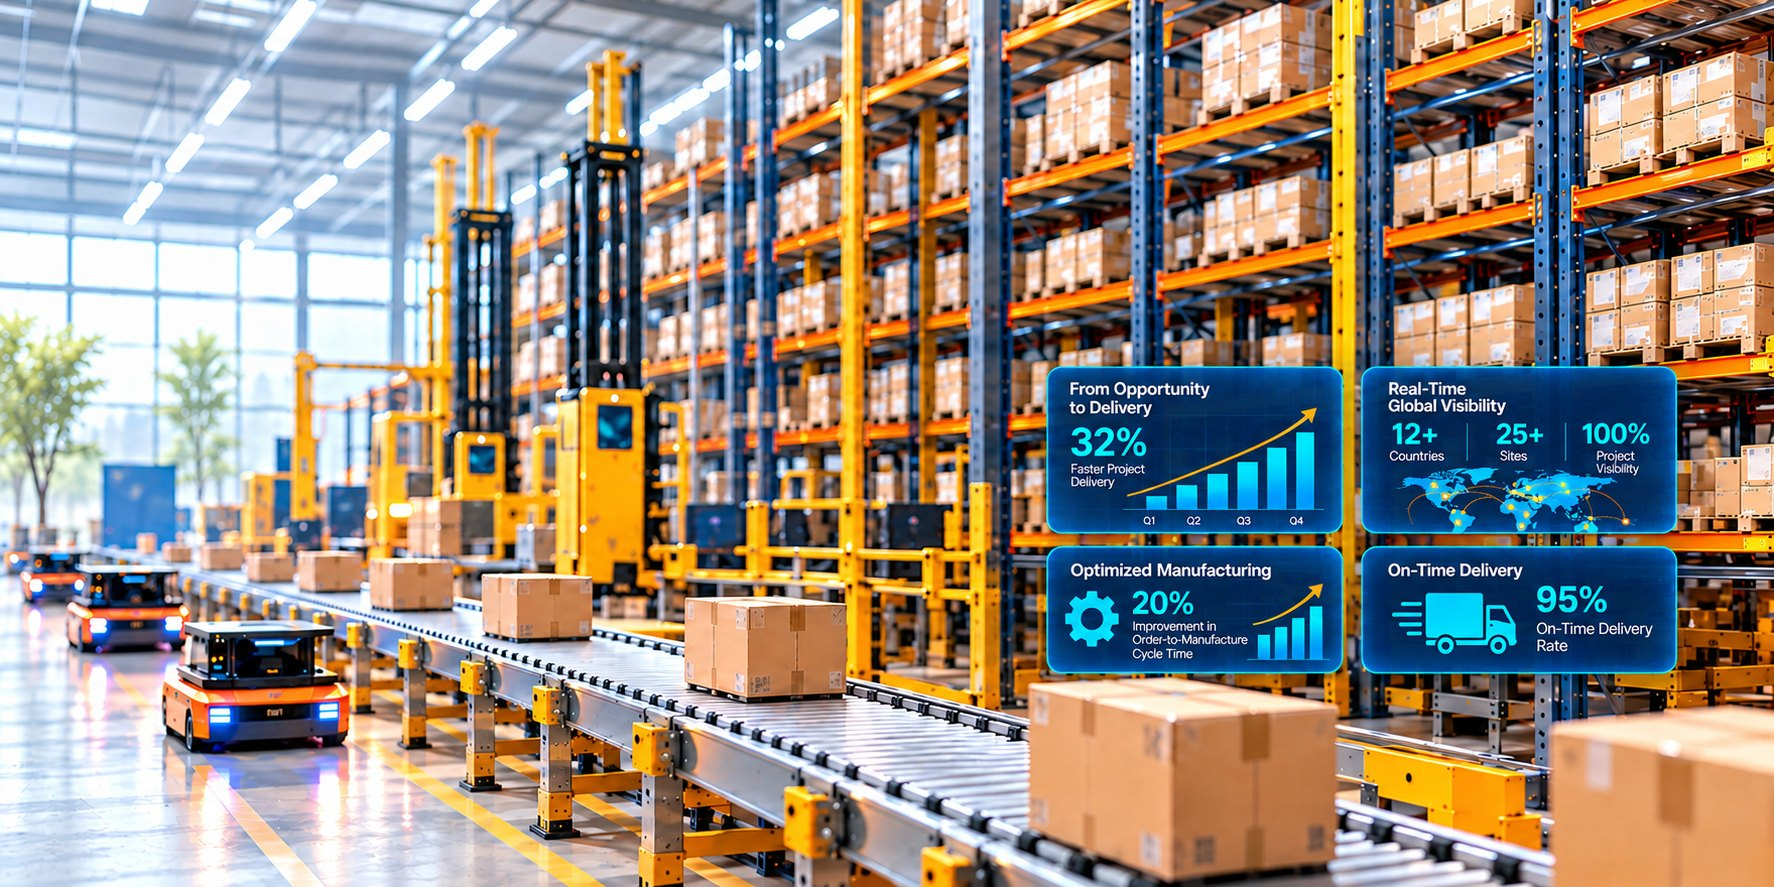
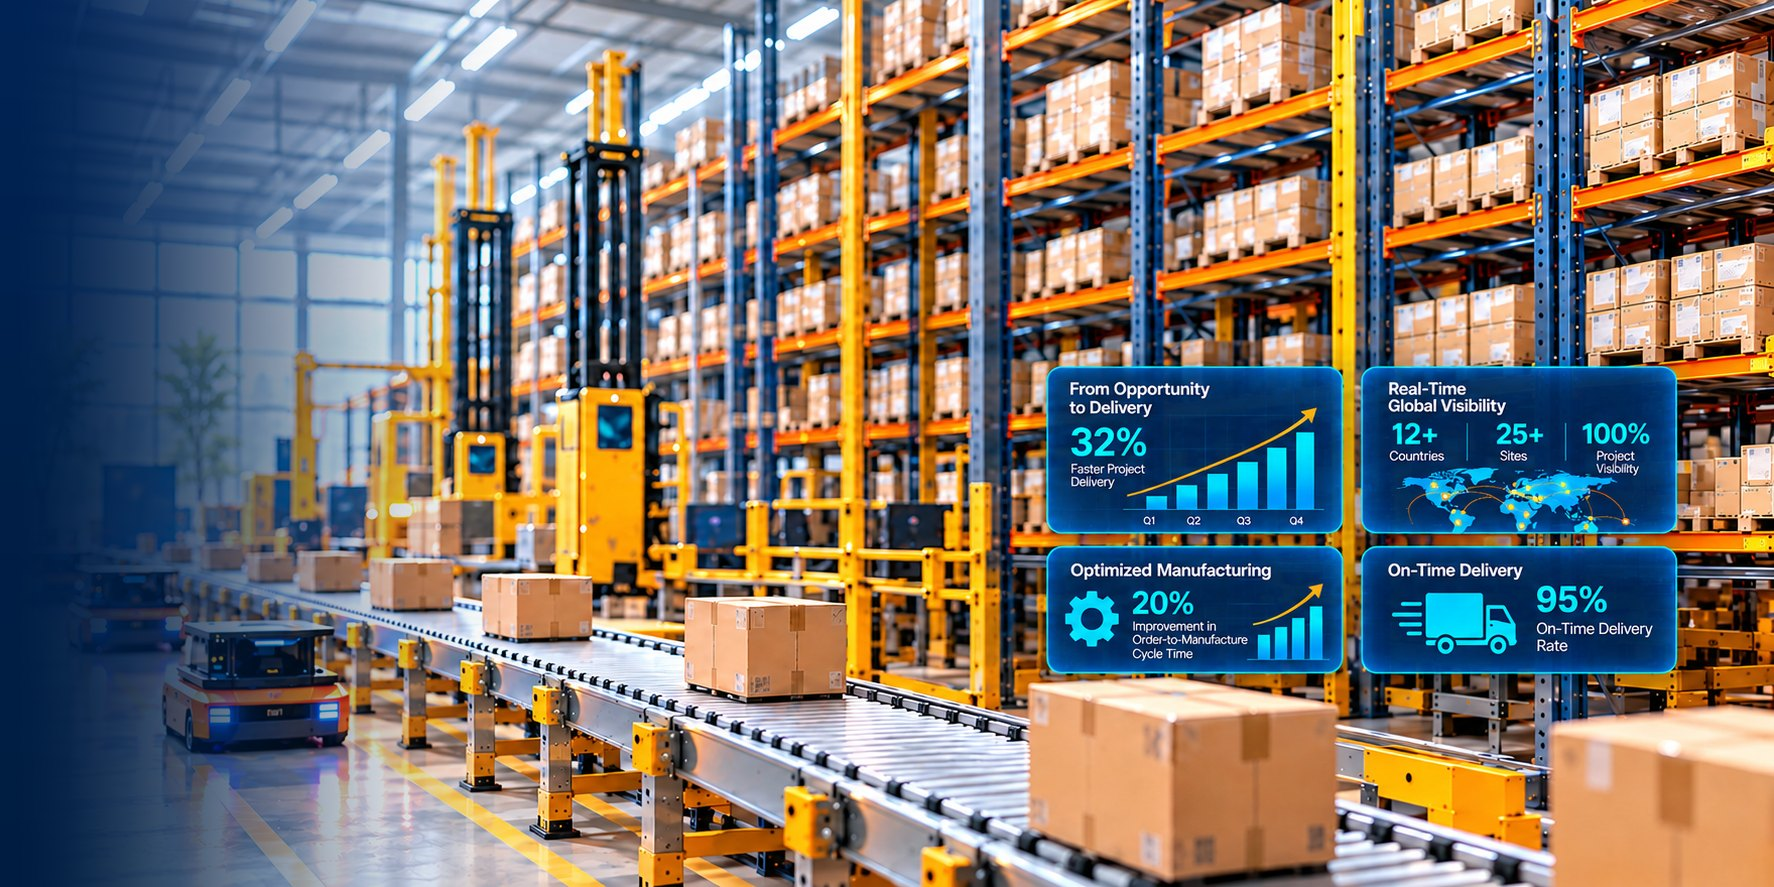
Dematic hero: keep the dark cover to the text
Feather the artwork's left 30% into the navy base so the cover no longer has
to stretch to hide the image edge; the cover now clears just after the copy at
every width.

Changed region(s): [[0.0, 0.0, 0.248, 1.0]]

diff --git a/assets/css/dematic-case-study.css b/assets/css/dematic-case-study.css
@@ -148,13 +148,13 @@ body.infometry-dematic-case-study-page #Header { min-height: 0 !important; }
  * Identical to the Sunrun hero (sunrise-case-study.css): same height, frame,
  * padding, copy width and type, so every case-study banner matches.
  *  1025px+  hero height clamp(400px, 37.5vw, 540px); the artwork lives in a
- *           1440px frame, height-fitted and right-aligned, under an opaque
- *           navy cover that clears before the first panel.
+ *           1440px frame, height-fitted and right-aligned. The artwork's left
+ *           30% is feathered into the navy base, so the opaque cover only has to
+ *           sit behind the copy and clears just after it.
  *  1441px+  the frame stops growing; the artwork bleeds to the viewport's right
- *           edge and the cover only sits behind the copy (the copy always ends
- *           at 50% - 74px). Panels start 444px from the artwork's right edge
- *           (540px tall x 2 = 1080px wide), so the cover clears before them and
- *           always hides the artwork's left edge (100% - 1080px).
+ *           edge and the cover still only sits behind the copy (which always
+ *           ends at 50% - 74px). Panels start 444px from the artwork's right edge
+ *           (540px tall x 2 = 1080px wide), so the cover always clears before them.
  *  A light top shade keeps the theme menu readable over the bright artwork.
  *  <=1024   artwork shown as an image under the copy.
  */
@@ -239,7 +239,7 @@ body.infometry-dematic-case-study-page #Header { min-height: 0 !important; }
 		pointer-events: none;
 		background:
 			linear-gradient(180deg, rgba(0, 22, 52, .72) 0, rgba(0, 22, 52, 0) 130px),
-			linear-gradient(90deg, #001f47 0%, #001f47 38%, rgba(0, 31, 71, .7) 45%, rgba(0, 31, 71, 0) 53%),
+			linear-gradient(90deg, #001f47 0%, #001f47 calc(51.8% - 60px), rgba(0, 31, 71, .55) 51.8%, rgba(0, 31, 71, 0) calc(51.8% + 50px)),
 			url(../images/case-studies/dematic/dematic-warehouse-visibility-hero.jpg) right center / auto 100% no-repeat;
 	}
 	.dematic-hero-copy { width: calc(51.8% - 98px); max-width: 600px; }
@@ -264,9 +264,9 @@ body.infometry-dematic-case-study-page #Header { min-height: 0 !important; }
 			linear-gradient(180deg, rgba(0, 22, 52, .72) 0, rgba(0, 22, 52, 0) 130px),
 			linear-gradient(90deg,
 				#001f47 0,
-				#001f47 max(min(50% - 40px, 100% - 624px), 100% - 1020px),
-				rgba(0, 31, 71, .55) max(min(50% + 40px, 100% - 544px), 100% - 960px),
-				rgba(0, 31, 71, 0) max(min(50% + 120px, 100% - 464px), 100% - 900px)),
+				#001f47 min(50% - 50px, 100% - 624px),
+				rgba(0, 31, 71, .55) min(50% + 10px, 100% - 544px),
+				rgba(0, 31, 71, 0) min(50% + 70px, 100% - 464px)),
 			url(../images/case-studies/dematic/dematic-warehouse-visibility-hero.jpg) right center / auto 100% no-repeat;
 	}
 }
